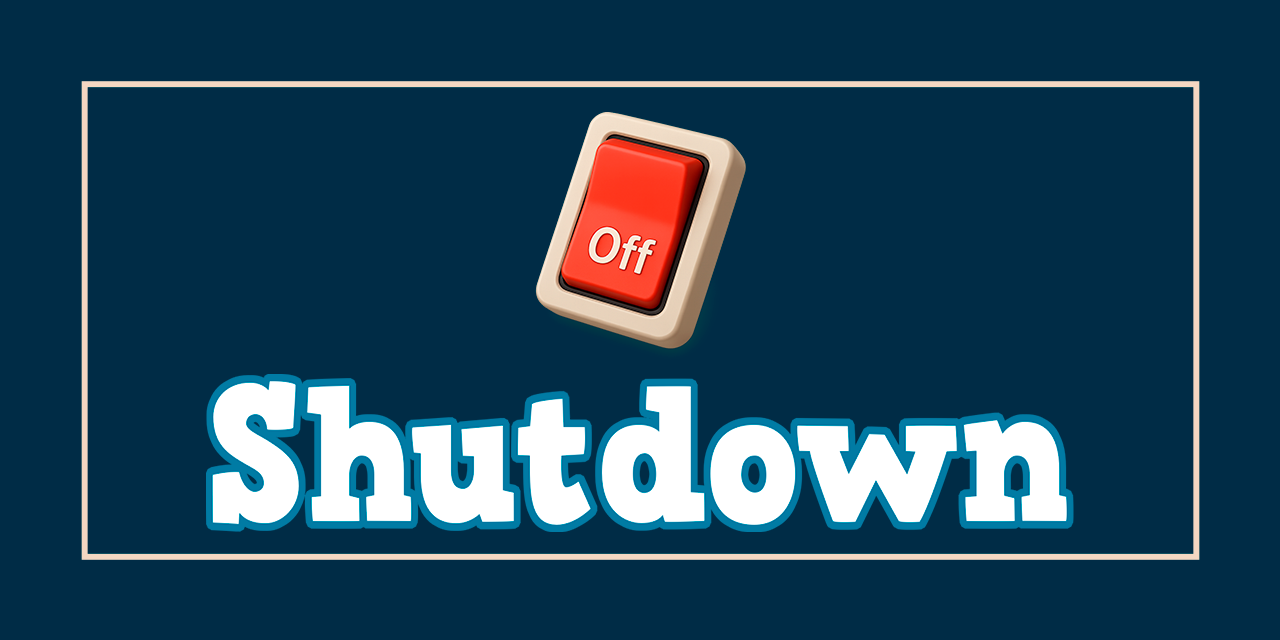
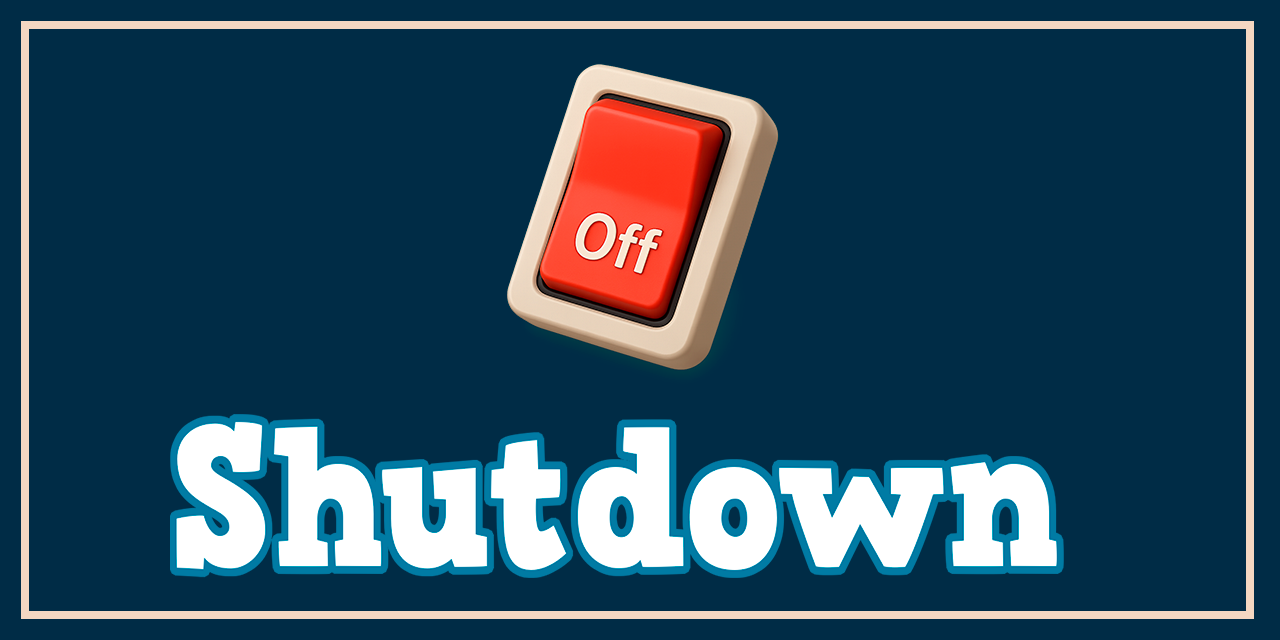
docs: Actualizar README y la imagen de vista previa
- Se actualiza el archivo README.md con la nueva información de compatibilidad del sistema operativo.
- Se actualiza la imagen de vista previa (Preview.png) a una nueva versión.

Changed region(s): [[0.0625, 0.0938, 0.9375, 0.9062], [0.0, 0.0312, 1.0, 0.9688]]

diff --git a/README.md b/README.md
@@ -1,6 +1,7 @@
 # 💻 ShutdownApp - Apagado Programado (C#)
 
 Una aplicación sencilla de escritorio para Windows, desarrollada en C# con Windows Forms que permite programar fácilmente el apagado de tu PC en un tiempo determinado. Ofrece una interfaz de usuario intuitiva, botones personalizados, soporte para múltiples idiomas, y una gestión robusta de los comandos del sistema.
+La aplicación se distribuye como un Ejecutable Portable de un solo archivo.
 
 ![Social Preview](images/Preview.png)
 
@@ -46,7 +47,7 @@ Una aplicación sencilla de escritorio para Windows, desarrollada en C# con Wind
 
 ## 📋 Requisitos
 
-*   **Sistema Operativo:** Windows 7 o superior.
+*   **Sistema Operativo:** Compatible con Windows 7 y versiones posteriores (probado en Windows 8, 8.1, 10 y 11).
 *   **.NET Runtime:** La aplicación está compilada para .NET 6.0. Si el sistema no lo tiene preinstalado, es posible que se requiera la instalación del [.NET 6.0 Desktop Runtime](https://dotnet.microsoft.com/download/dotnet/6.0/runtime).
 
 ## 🚀 Uso
